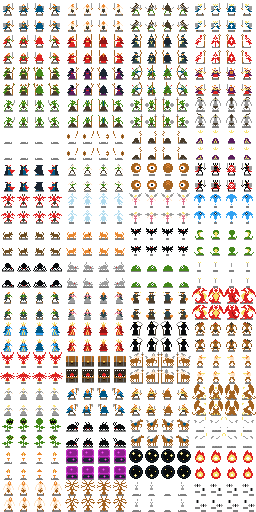
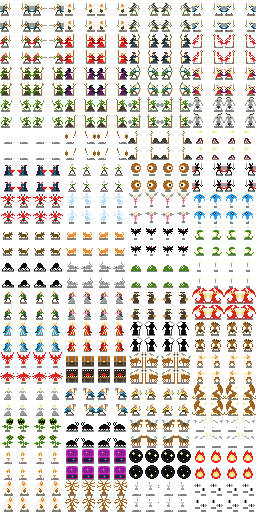
Player stance

diff --git a/js/entities/PlayerEntity.js b/js/entities/PlayerEntity.js
@@ -24,16 +24,19 @@ game.PlayerEntity = me.Entity.extend({
 
     // ensure the player is updated even when outside of the viewport
     this.alwaysUpdate = true;
-    
+    this.stance = "walk";
 
     // define a basic walking animation (using all frames)
     this.renderable.addAnimation("walk.right", [0,16]);
-    this.renderable.addAnimation("walk.left", [3,19]);
+    this.renderable.addAnimation("walk.left", [1,17]);
+    this.renderable.addAnimation("attack.right", [2,18]);
+    this.renderable.addAnimation("attack.left", [3,19]);
     this.renderable.addAnimation("stand.right", [0]);
-    this.renderable.addAnimation("stand.left", [3]);
+    this.renderable.addAnimation("stand.left", [1]);
+    
 
     // set the standing animation as default
-    this.renderable.setCurrentAnimation("stand.right");
+    this.renderable.setCurrentAnimation(this.stance + ".right");
     this.facing = "left";
   },
 
@@ -64,28 +67,30 @@ game.PlayerEntity = me.Entity.extend({
     } else {
       this.body.vel.y = 0;
     }
-    // interact action
-
+    // interact and action
+    if(me.input.isKeyPressed('action')) {
+        this.stance = "attack";
+    }
 
     // Animate considering the facing
     if (this.body.vel.y != 0 || this.body.vel.x != 0) {
       if (this.facing == "left") {
-        if (!this.renderable.isCurrentAnimation("walk.left")) {
-            this.renderable.setCurrentAnimation("walk.left");
+        if (!this.renderable.isCurrentAnimation(this.stance + ".left")) {
+            this.renderable.setCurrentAnimation(this.stance + ".left");
         } 
       } else if (this.facing == "right") {
-        if (!this.renderable.isCurrentAnimation("walk.right")) {
-            this.renderable.setCurrentAnimation("walk.right");
+        if (!this.renderable.isCurrentAnimation(this.stance + ".right")) {
+            this.renderable.setCurrentAnimation(this.stance + ".right");
         }
       } 
     } else {
       if (this.facing == "left") {
-        if (!this.renderable.isCurrentAnimation("stand.left")) {
-            this.renderable.setCurrentAnimation("stand.left");
+        if (!this.renderable.isCurrentAnimation(this.stance + ".left")) {
+            this.renderable.setCurrentAnimation(this.stance + ".left");
         } 
       } else if (this.facing == "right") {
-        if (!this.renderable.isCurrentAnimation("stand.right")) {
-            this.renderable.setCurrentAnimation("stand.right");
+        if (!this.renderable.isCurrentAnimation(this.stance + ".right")) {
+            this.renderable.setCurrentAnimation(this.stance + ".right");
         }
       } 
     }

diff --git a/js/entities/Spider.js b/js/entities/Spider.js
@@ -42,9 +42,9 @@ game.Spider = me.Entity.extend({
     // animations
 		
     this.renderable.addAnimation('walk.right',[256,272]);
-    this.renderable.addAnimation('walk.left',[259,275]);
+    this.renderable.addAnimation('walk.left',[257,273]);
 		this.renderable.addAnimation('stand.right',[256]);
-    this.renderable.addAnimation('stand.left',[259]);
+    this.renderable.addAnimation('stand.left',[257]);
 		this.renderable.addAnimation('stand.dead',[257]);
     this.renderable.setCurrentAnimation('stand.left');
 		this.direction = 'left';
